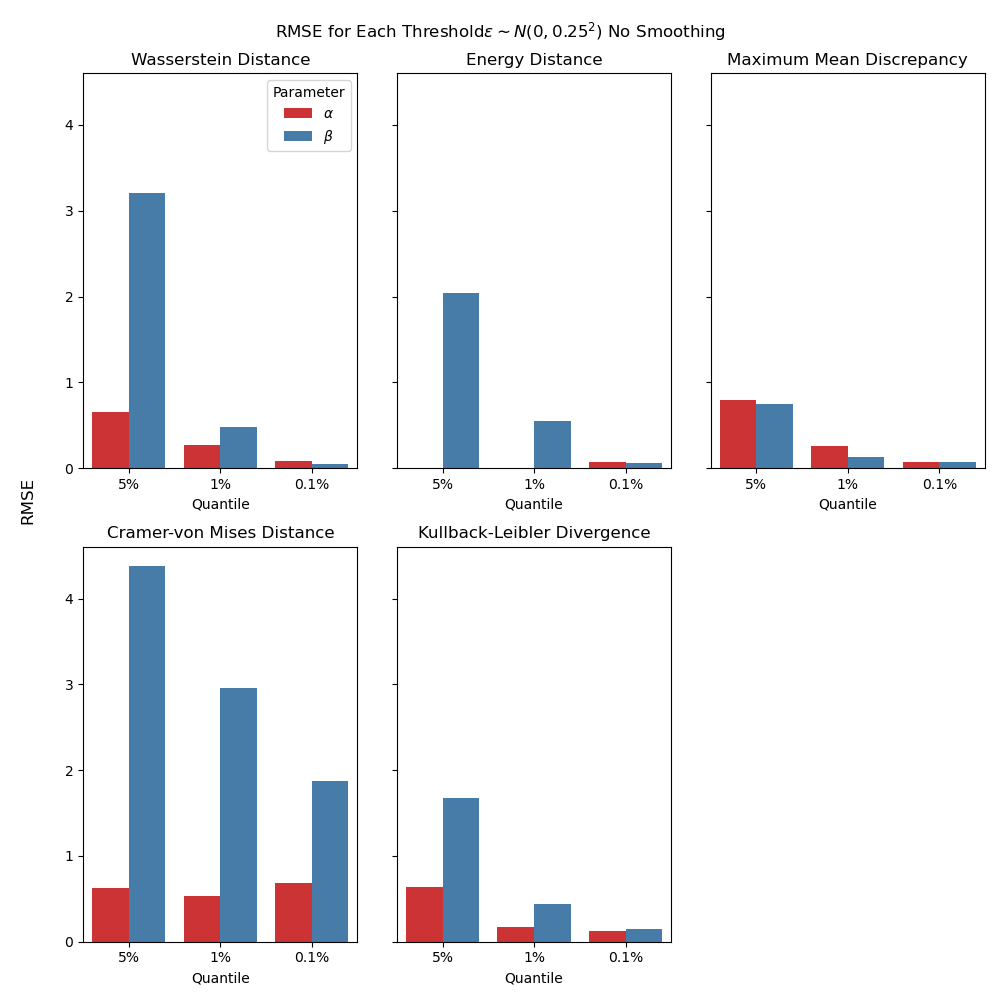
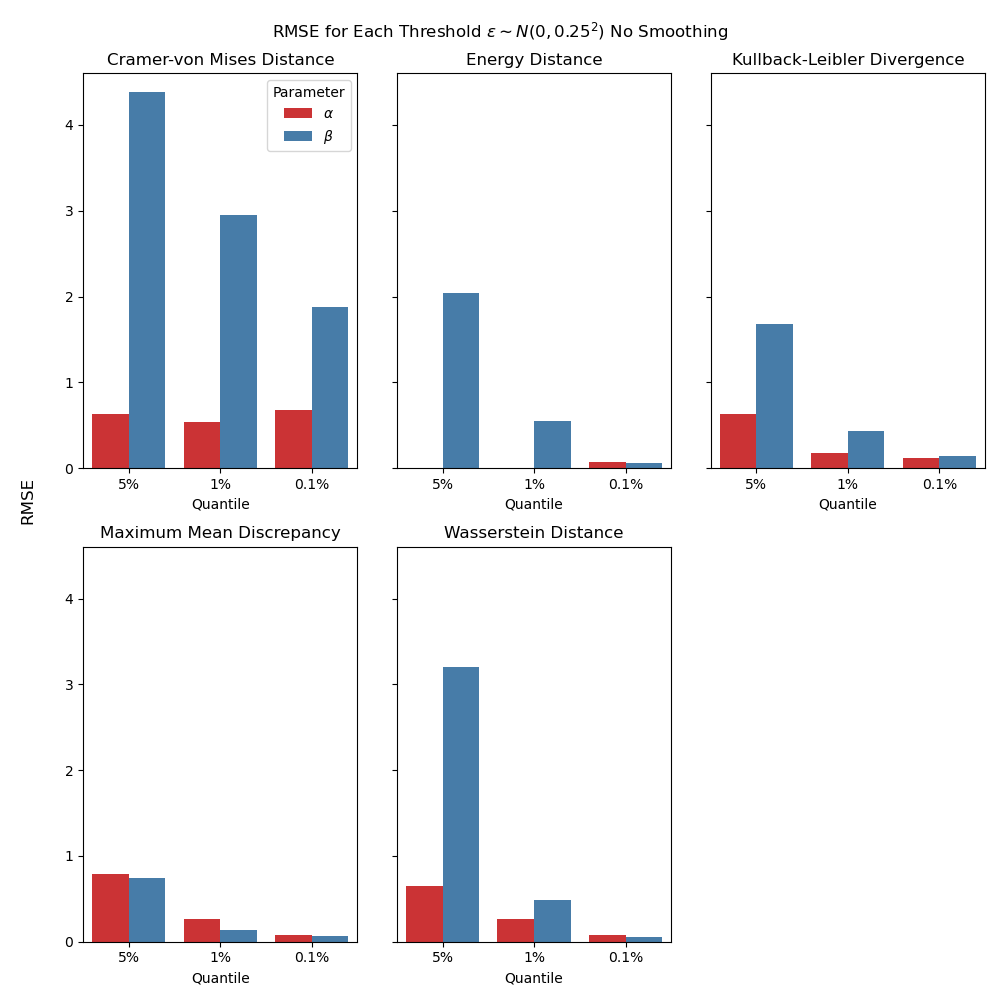
added plots for threshold bar plot.

diff --git a/lotka_volterra/threshold_bar_plot.py b/lotka_volterra/threshold_bar_plot.py
@@ -5,7 +5,7 @@ import matplotlib.pyplot as plt
 
 PLOT_PATH = "./lotka_volterra/plots"
 DATAFRAME_PATH = "./lotka_volterra/dataframe/all_summary_statistics.csv"
-DISTANCE = ["Wasserstein Distance", "Energy Distance", "Maximum Mean Discrepancy", "Cramer-von Mises Distance", "Kullback-Leibler Divergence"]
+DISTANCE = ["Cramer-von Mises Distance", "Energy Distance", "Kullback-Leibler Divergence", "Maximum Mean Discrepancy",  "Wasserstein Distance"]
 MODELS = ["n0_no_smoothing", "n0.25_no_smoothing", "n0.25_smoothing", "n0.5_no_smoothing", "n0.5_smoothing", "n0.75_no_smoothing", "n0.75_smoothing",
           "nlinear_no_smoothing", "nlinear_smoothing"]
 NOISE = [0, 0.25, 0.25, 0.5, 0.5, 0.75, 0.75, "linear", "linear"]
@@ -51,8 +51,12 @@ for j, model in enumerate(MODELS):
         # Change xlabel and ylabel
         ax_rmse[i].set_xlabel("Quantile")
         ax_rmse[i].set_ylabel(" ")
+
+        ax_stdev[i].set_xlabel("Quantile")
+        ax_stdev[i].set_ylabel(" ")
         # Add plot title
         ax_rmse[i].set_title(d)
+        ax_stdev[i].set_title(d)
     
     if NOISE[j] == "linear":
         title = "$\\varepsilon\\sim N(0, t^2)$"
@@ -64,10 +68,13 @@ for j, model in enumerate(MODELS):
         title += " Smoothed"
 
     # Add suptitle and supxlabel
-    fig_rmse.suptitle("RMSE for Each Threshold" + title)
+    fig_rmse.suptitle("RMSE for Each Threshold " + title)
     fig_rmse.supylabel("RMSE", fontsize=12)
-    # fig_rmse.legend(title="Parameter", labels=["$\\alpha$", "$\\beta"])
     fig_rmse.tight_layout()
+
+    fig_stdev.suptitle("Standard Deviation for Each Threshold " + title)
+    fig_stdev.supylabel("Standard Deviation", fontsize=12)
+    fig_stdev.tight_layout()
 
     fig_rmse.savefig(os.path.join(PLOT_PATH, model + "/rmse_threshold_bar_plot.png"))
     fig_stdev.savefig(os.path.join(PLOT_PATH, model + "/stdev_threshold_bar_plot.png"))
